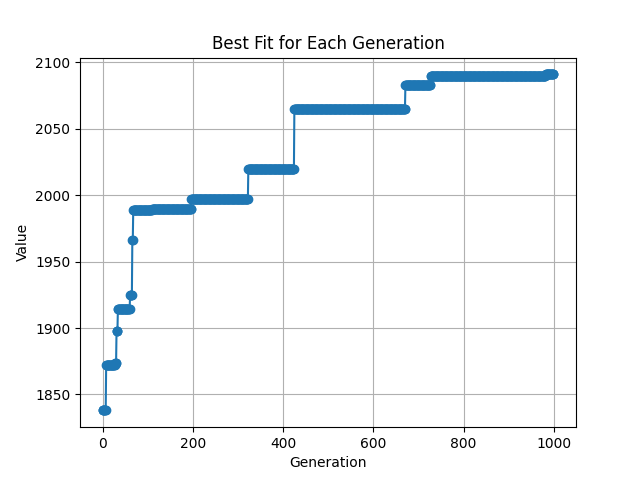
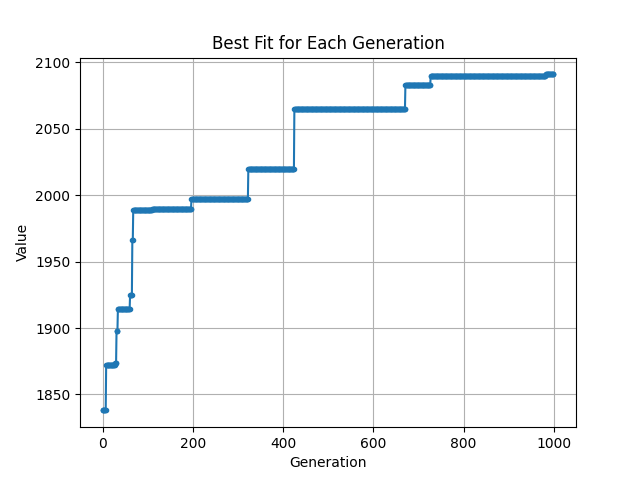
image

diff --git a/result/pilot.py b/result/pilot.py
@@ -18,7 +18,7 @@ for line in lines:
         values.append(value)
 
 # Vẽ đồ thị liền mạch
-plt.plot(generations, values, marker='o', linestyle='-')
+plt.plot(generations, values, marker='.', linestyle='-')
 plt.title('Best Fit for Each Generation')
 plt.xlabel('Generation')
 plt.ylabel('Value')
